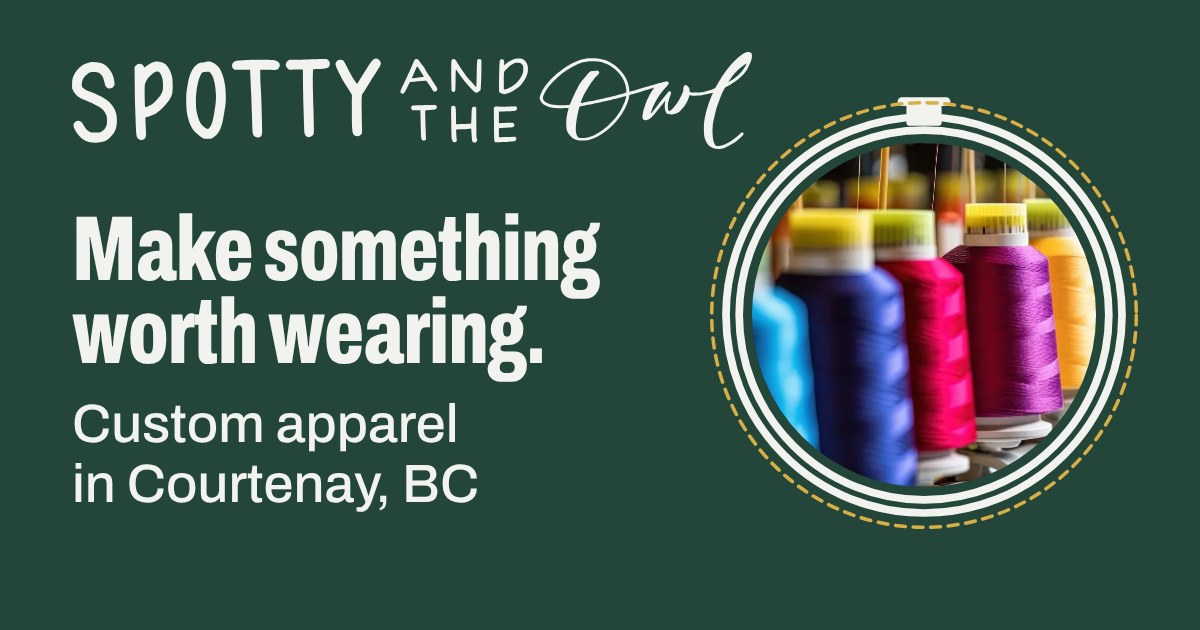
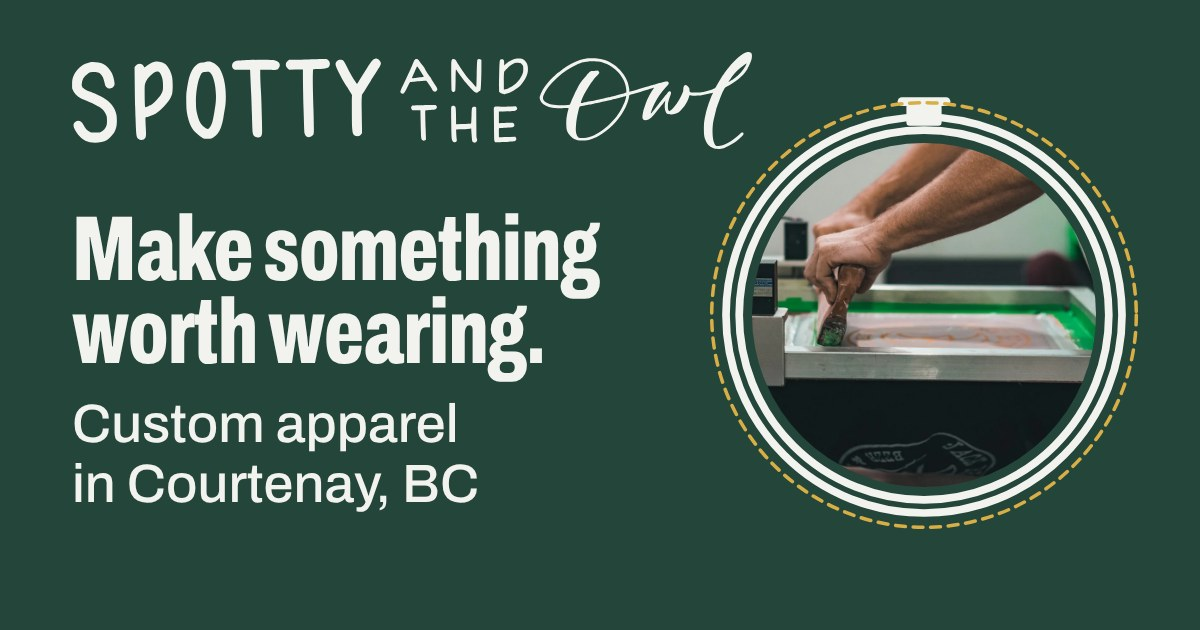
Share card: screen-printing photo in the hoop
Swaps the thread cones for a stock photo of hands pulling a squeegee
(Anthony Roberts, Unsplash licence). Image alt text updated, and the
cache-buster raised to v=7 so apps fetch the new card.

Claude-Session: https://claude.ai/code/session_01TeP7oMVvDquNMcumT4gy2c

Changed region(s): [[0.6167, 0.2111, 0.925, 0.7841]]

diff --git a/services.html b/services.html
@@ -20,12 +20,12 @@
       content="Screen printing, embroidery, heat-transfer vinyl, DTF and DTG printing, blank apparel sourcing and promotional products in Courtenay, BC."
     />
     <meta property="og:url" content="https://mstonehouse.github.io/spotty-and-the-owl/services.html" />
-    <meta property="og:image" content="https://mstonehouse.github.io/spotty-and-the-owl/assets/share-card.jpg?v=6" />
+    <meta property="og:image" content="https://mstonehouse.github.io/spotty-and-the-owl/assets/share-card.jpg?v=7" />
     <meta property="og:image:width" content="1200" />
     <meta property="og:image:height" content="630" />
     <meta
       property="og:image:alt"
-      content="Spotty and the Owl: Make something worth wearing. Custom apparel in Courtenay, BC. Spools of brightly coloured embroidery thread, framed in an embroidery hoop."
+      content="Spotty and the Owl: Make something worth wearing. Custom apparel in Courtenay, BC. Hands pulling a squeegee across a screen-printing screen, framed in an embroidery hoop."
     />
     <meta name="twitter:card" content="summary_large_image" />
     <!-- Browser tab and home-screen icons (Dan's owl). favicon.ico is the old format some browsers and

diff --git a/artwork.html b/artwork.html
@@ -20,12 +20,12 @@
       content="Artwork guidelines for custom apparel: preferred vector formats, accepted files, and how to prepare your logo for printing or embroidery."
     />
     <meta property="og:url" content="https://mstonehouse.github.io/spotty-and-the-owl/artwork.html" />
-    <meta property="og:image" content="https://mstonehouse.github.io/spotty-and-the-owl/assets/share-card.jpg?v=6" />
+    <meta property="og:image" content="https://mstonehouse.github.io/spotty-and-the-owl/assets/share-card.jpg?v=7" />
     <meta property="og:image:width" content="1200" />
     <meta property="og:image:height" content="630" />
     <meta
       property="og:image:alt"
-      content="Spotty and the Owl: Make something worth wearing. Custom apparel in Courtenay, BC. Spools of brightly coloured embroidery thread, framed in an embroidery hoop."
+      content="Spotty and the Owl: Make something worth wearing. Custom apparel in Courtenay, BC. Hands pulling a squeegee across a screen-printing screen, framed in an embroidery hoop."
     />
     <meta name="twitter:card" content="summary_large_image" />
     <!-- Browser tab and home-screen icons (Dan's owl). favicon.ico is the old format some browsers and

diff --git a/index.html b/index.html
@@ -20,12 +20,12 @@
       content="Custom screen printing, embroidery, vinyl, DTF and DTG printing in Courtenay, BC. Apparel for businesses, trades, schools, sports teams and events."
     />
     <meta property="og:url" content="https://mstonehouse.github.io/spotty-and-the-owl/" />
-    <meta property="og:image" content="https://mstonehouse.github.io/spotty-and-the-owl/assets/share-card.jpg?v=6" />
+    <meta property="og:image" content="https://mstonehouse.github.io/spotty-and-the-owl/assets/share-card.jpg?v=7" />
     <meta property="og:image:width" content="1200" />
     <meta property="og:image:height" content="630" />
     <meta
       property="og:image:alt"
-      content="Spotty and the Owl: Make something worth wearing. Custom apparel in Courtenay, BC. Spools of brightly coloured embroidery thread, framed in an embroidery hoop."
+      content="Spotty and the Owl: Make something worth wearing. Custom apparel in Courtenay, BC. Hands pulling a squeegee across a screen-printing screen, framed in an embroidery hoop."
     />
     <meta name="twitter:card" content="summary_large_image" />
     <!-- Browser tab and home-screen icons (Dan's owl). favicon.ico is the old format some browsers and

diff --git a/quote.html b/quote.html
@@ -20,12 +20,12 @@
       content="Request a custom apparel quote from Spotty and the Owl Apparel in Courtenay, BC. Tell us the garments, quantity, method and artwork."
     />
     <meta property="og:url" content="https://mstonehouse.github.io/spotty-and-the-owl/quote.html" />
-    <meta property="og:image" content="https://mstonehouse.github.io/spotty-and-the-owl/assets/share-card.jpg?v=6" />
+    <meta property="og:image" content="https://mstonehouse.github.io/spotty-and-the-owl/assets/share-card.jpg?v=7" />
     <meta property="og:image:width" content="1200" />
     <meta property="og:image:height" content="630" />
     <meta
       property="og:image:alt"
-      content="Spotty and the Owl: Make something worth wearing. Custom apparel in Courtenay, BC. Spools of brightly coloured embroidery thread, framed in an embroidery hoop."
+      content="Spotty and the Owl: Make something worth wearing. Custom apparel in Courtenay, BC. Hands pulling a squeegee across a screen-printing screen, framed in an embroidery hoop."
     />
     <meta name="twitter:card" content="summary_large_image" />
     <!-- Browser tab and home-screen icons (Dan's owl). favicon.ico is the old format some browsers and

diff --git a/pricing.html b/pricing.html
@@ -20,12 +20,12 @@
       content="How custom apparel pricing works at Spotty and the Owl: garments, quantity, method, design, placement, setup and turnaround."
     />
     <meta property="og:url" content="https://mstonehouse.github.io/spotty-and-the-owl/pricing.html" />
-    <meta property="og:image" content="https://mstonehouse.github.io/spotty-and-the-owl/assets/share-card.jpg?v=6" />
+    <meta property="og:image" content="https://mstonehouse.github.io/spotty-and-the-owl/assets/share-card.jpg?v=7" />
     <meta property="og:image:width" content="1200" />
     <meta property="og:image:height" content="630" />
     <meta
       property="og:image:alt"
-      content="Spotty and the Owl: Make something worth wearing. Custom apparel in Courtenay, BC. Spools of brightly coloured embroidery thread, framed in an embroidery hoop."
+      content="Spotty and the Owl: Make something worth wearing. Custom apparel in Courtenay, BC. Hands pulling a squeegee across a screen-printing screen, framed in an embroidery hoop."
     />
     <meta name="twitter:card" content="summary_large_image" />
     <!-- Browser tab and home-screen icons (Dan's owl). favicon.ico is the old format some browsers and

diff --git a/work.html b/work.html
@@ -20,12 +20,12 @@
       content="Recent custom apparel from Spotty and the Owl: team tees, embroidered caps, company workwear and more, made in Courtenay, BC."
     />
     <meta property="og:url" content="https://mstonehouse.github.io/spotty-and-the-owl/work.html" />
-    <meta property="og:image" content="https://mstonehouse.github.io/spotty-and-the-owl/assets/share-card.jpg?v=6" />
+    <meta property="og:image" content="https://mstonehouse.github.io/spotty-and-the-owl/assets/share-card.jpg?v=7" />
     <meta property="og:image:width" content="1200" />
     <meta property="og:image:height" content="630" />
     <meta
       property="og:image:alt"
-      content="Spotty and the Owl: Make something worth wearing. Custom apparel in Courtenay, BC. Spools of brightly coloured embroidery thread, framed in an embroidery hoop."
+      content="Spotty and the Owl: Make something worth wearing. Custom apparel in Courtenay, BC. Hands pulling a squeegee across a screen-printing screen, framed in an embroidery hoop."
     />
     <meta name="twitter:card" content="summary_large_image" />
     <!-- Browser tab and home-screen icons (Dan's owl). favicon.ico is the old format some browsers and

diff --git a/guarantee.html b/guarantee.html
@@ -20,12 +20,12 @@
       content="Our production guarantee, what is not covered, customer-supplied apparel and quantity accuracy policies."
     />
     <meta property="og:url" content="https://mstonehouse.github.io/spotty-and-the-owl/guarantee.html" />
-    <meta property="og:image" content="https://mstonehouse.github.io/spotty-and-the-owl/assets/share-card.jpg?v=6" />
+    <meta property="og:image" content="https://mstonehouse.github.io/spotty-and-the-owl/assets/share-card.jpg?v=7" />
     <meta property="og:image:width" content="1200" />
     <meta property="og:image:height" content="630" />
     <meta
       property="og:image:alt"
-      content="Spotty and the Owl: Make something worth wearing. Custom apparel in Courtenay, BC. Spools of brightly coloured embroidery thread, framed in an embroidery hoop."
+      content="Spotty and the Owl: Make something worth wearing. Custom apparel in Courtenay, BC. Hands pulling a squeegee across a screen-printing screen, framed in an embroidery hoop."
     />
     <meta name="twitter:card" content="summary_large_image" />
     <!-- Browser tab and home-screen icons (Dan's owl). favicon.ico is the old format some browsers and

diff --git a/about.html b/about.html
@@ -20,12 +20,12 @@
       content="Spotty and the Owl Apparel is a family-run custom apparel shop in Courtenay, BC, established in 2018."
     />
     <meta property="og:url" content="https://mstonehouse.github.io/spotty-and-the-owl/about.html" />
-    <meta property="og:image" content="https://mstonehouse.github.io/spotty-and-the-owl/assets/share-card.jpg?v=6" />
+    <meta property="og:image" content="https://mstonehouse.github.io/spotty-and-the-owl/assets/share-card.jpg?v=7" />
     <meta property="og:image:width" content="1200" />
     <meta property="og:image:height" content="630" />
     <meta
       property="og:image:alt"
-      content="Spotty and the Owl: Make something worth wearing. Custom apparel in Courtenay, BC. Spools of brightly coloured embroidery thread, framed in an embroidery hoop."
+      content="Spotty and the Owl: Make something worth wearing. Custom apparel in Courtenay, BC. Hands pulling a squeegee across a screen-printing screen, framed in an embroidery hoop."
     />
     <meta name="twitter:card" content="summary_large_image" />
     <!-- Browser tab and home-screen icons (Dan's owl). favicon.ico is the old format some browsers and
